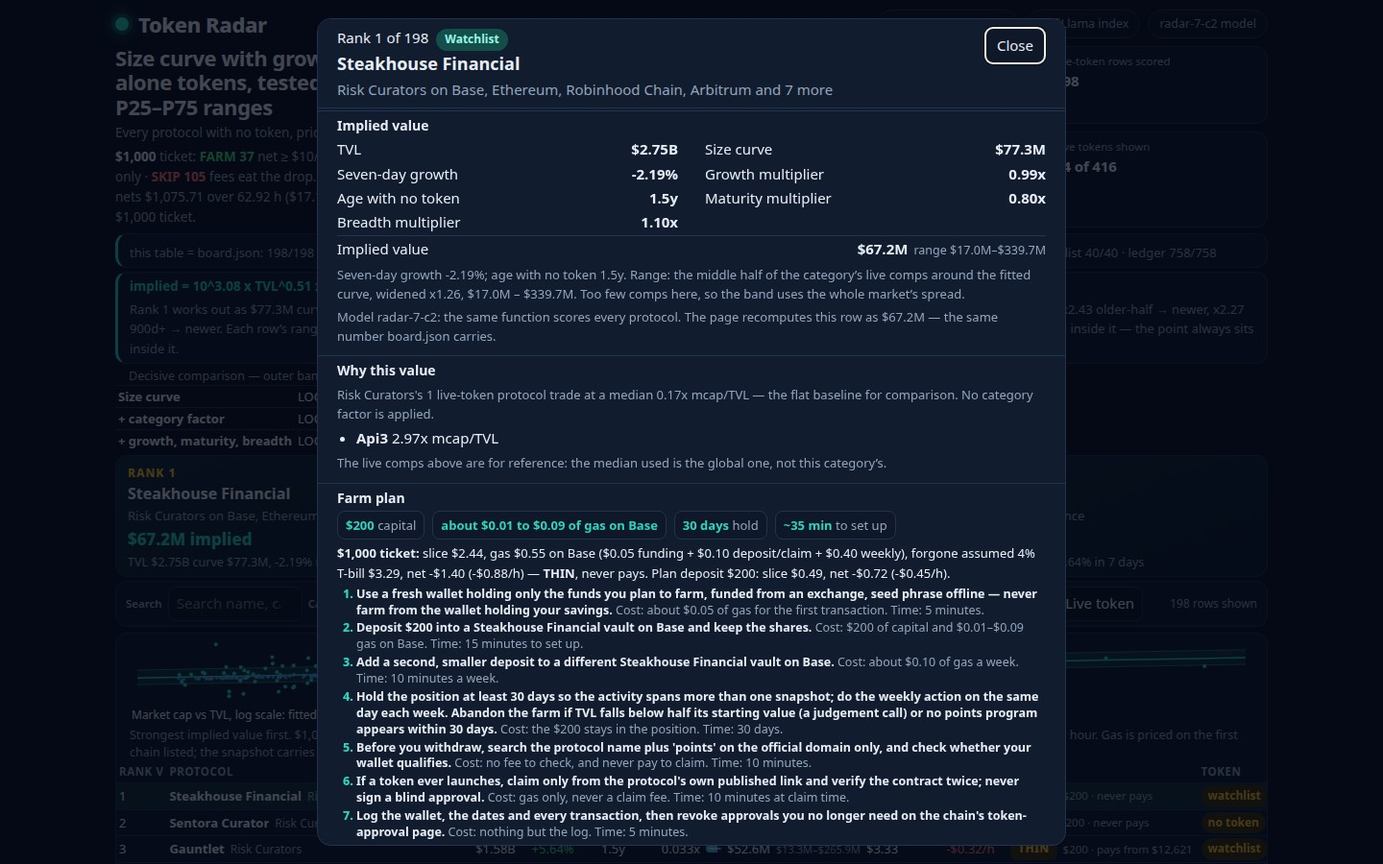
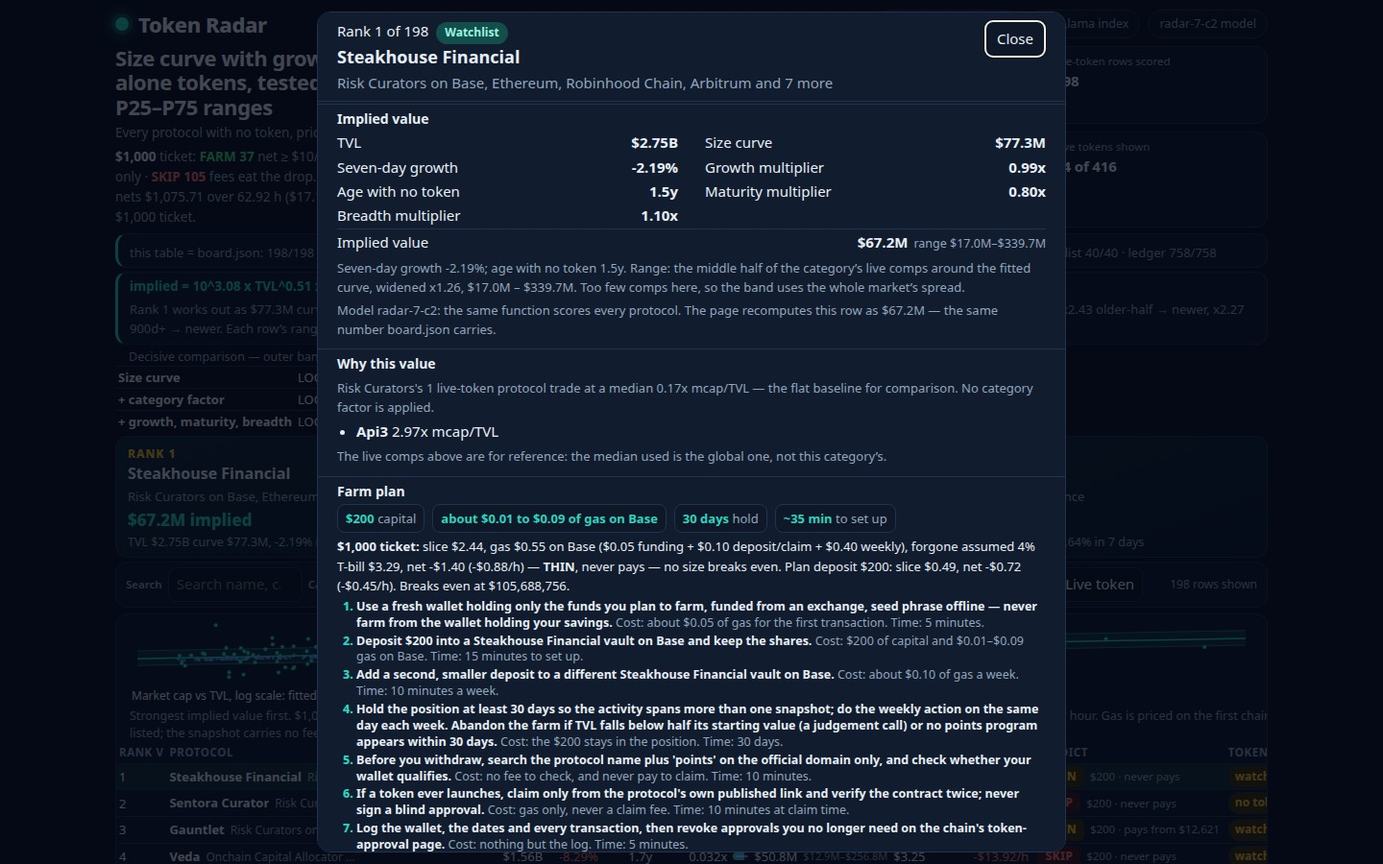
slot8: scope B — break-even launch value in detail, chain suffix on board, F-D limits
- formulaBar R-F: static band definition, claim + literal 53.3% kept on
  cover, widen number leaves cover bar only (-301 B)
- detail ticket-line: 'Breaks even at $X.' on every row + 'never pays —
  no size breaks even' on exactly the 5 pays_from-null rows
  (be_launch_usd in ticketOf, median $7,986,414)
- board sub-line: category + chain suffix via chainLabel (+27 B)
- limits panel: median band width x19.93 + 144-row move sentences (+144 B)
- CSS minified 9724 -> 9594 B, screenshots md5-identical pre/post (-130 B)
- dossier text 65174 B files / 65436 B incl header (cap 65536, 100 B headroom)
- board.json + data.js byte-identical to slot7 base: zero C2 movement
- grade-local not runnable locally (judge competition, sealed scorer
  unpublished); targets reproduced locally, see slot8 build log
- kit 39 provisional (server at 40); no kit check / bundle / submit

diff --git a/dashboard/app.css b/dashboard/app.css
@@ -1,130 +1,1 @@
-:root{--bg:#0b1220;--panel:#111c2e;--panel2:#0f1828;--line:#22344d;--ink:#e8eef7;--muted:#93a5bd;--faint:#6b7d96;--teal:#2dd4bf;--teal-dim:#134e4a;--amber:#fbbf24;--green:#4ade80;--red:#f87171;--blue:#60a5fa;--radius:12px}
-*{box-sizing:border-box}
-html{color-scheme:dark}
-body{margin:0;background:var(--bg);color:var(--ink);font:15px/1.55 system-ui,-apple-system,sans-serif}
-a{color:var(--teal)}
-.skip{position:absolute;left:-999px;top:0;background:var(--teal);color:#04211d;padding:8px 14px;border-radius:0 0 8px 0;font-weight:700}
-.skip:focus{left:0}
-.shell{max-width:1240px;margin:0 auto;padding:0 20px 48px}
-.top{display:flex;justify-content:space-between;align-items:center;gap:16px;padding:8px 0 2px;flex-wrap:wrap}
-.brand{display:flex;align-items:center;gap:10px;font-size:22px;font-weight:800;letter-spacing:-.02em}
-.mark{width:14px;height:14px;border-radius:50%;background:var(--teal);box-shadow:0 0 0 4px var(--teal-dim),0 0 18px var(--teal)}
-.top-meta{display:flex;gap:8px;flex-wrap:wrap}
-.pill{border:1px solid var(--line);border-radius:999px;padding:4px 11px;color:var(--muted);font-size:12.5px;background:var(--panel2)}
-.lede{display:grid;grid-template-columns:1.5fr 1fr;gap:16px;padding:4px 0 2px}
-.lede h1{font-size:22px;line-height:1.15;margin:0 0 4px;letter-spacing:-.02em}
-.lede p{margin:0 0 4px;color:var(--muted);max-width:70ch;font-size:13.5px}
-.lede p:last-child{margin-bottom:0}
-.lede p b{color:var(--ink)}
-.verdict-line{font-size:13px}
-.verdict-line b.farm{color:var(--green)}
-.verdict-line b.thin{color:var(--amber)}
-.verdict-line b.skipv{color:var(--red)}
-.facts{display:grid;grid-template-columns:1fr 1fr;gap:8px}
-.fact{background:var(--panel);border:1px solid var(--line);border-radius:var(--radius);padding:6px 10px}
-.fact span{display:block;color:var(--muted);font-size:11.5px}
-.fact b{font-size:15px;letter-spacing:-.01em}
-.formula-bar{background:var(--panel);border:1px solid var(--line);border-left:3px solid var(--teal);border-radius:var(--radius);padding:5px 12px;margin:4px 0 2px}
-.formula-line{font-size:13.5px;line-height:1.45}
-.formula-line b{color:var(--teal)}
-.formula-bar p{margin:4px 0 0;color:var(--muted);font-size:13px}
-.spot{display:grid;grid-template-columns:repeat(3,1fr);gap:12px;margin:4px 0 2px}
-.spot-card{background:linear-gradient(160deg,#132a3a,#111c2e);border:1px solid var(--line);border-radius:var(--radius);padding:6px 12px;cursor:pointer;text-align:left;color:var(--ink);font:inherit;line-height:1.35}
-.spot-card:hover{border-color:var(--teal)}
-.spot-card .rank{color:var(--amber);font-weight:800;font-size:12px;text-transform:uppercase;letter-spacing:.08em}
-.spot-card h3{margin:2px 0 1px;font-size:16px}
-.spot-card .sub{color:var(--muted);font-size:13px}
-.spot-card .val{font-size:17px;font-weight:800;margin-top:4px;color:var(--teal)}
-.spot-card .why{color:var(--muted);font-size:12.5px;margin-top:1px}
-.controls{display:flex;gap:6px;align-items:center;flex-wrap:wrap;background:var(--panel);border:1px solid var(--line);border-radius:var(--radius);padding:5px 10px;margin:4px 0}
-.field{display:flex;flex-direction:row;align-items:center;gap:6px}
-.field label,.field .sub{font-size:11.5px;color:var(--muted);font-weight:600;white-space:nowrap}
-.field input,.field select{background:var(--panel2);border:1px solid var(--line);color:var(--ink);border-radius:8px;padding:5px 8px;font:inherit;min-width:0}
-.field input{width:140px}
-.field select{max-width:140px}
-.field input:focus,.field select:focus{outline:2px solid var(--teal);outline-offset:1px}
-.tabs{display:flex;gap:6px}
-.tabs button,.button{background:var(--panel2);border:1px solid var(--line);color:var(--ink);border-radius:8px;padding:5px 8px;font:inherit;cursor:pointer}
-.tabs button[aria-pressed="true"]{background:var(--teal-dim);border-color:var(--teal);color:#ccfbf1;font-weight:700}
-.check{display:flex;align-items:center;gap:7px;color:var(--muted);font-size:13px;cursor:pointer;white-space:nowrap}
-.check input{accent-color:var(--teal);width:16px;height:16px}
-.count{margin-left:auto;color:var(--muted);font-size:12px;align-self:center}
-.panel{background:var(--panel);border:1px solid var(--line);border-radius:var(--radius);margin:6px 0}
-.table-wrap{overflow-x:auto}
-table{width:100%;border-collapse:collapse;font-size:13px}
-.mini{width:auto}
-.mini td,.mini th{padding:1px 3px}
-caption{text-align:left;padding:2px 14px 0;color:var(--muted);font-size:12.5px;line-height:1.45}
-th,td{padding:2px 3px;text-align:left;border-top:1px solid var(--line);vertical-align:middle}
-thead th{border-top:0;color:var(--muted);font-size:11.5px;text-transform:uppercase;letter-spacing:.05em;white-space:nowrap}
-thead th button{background:none;border:0;color:inherit;font:inherit;cursor:pointer;padding:0;text-transform:inherit;letter-spacing:inherit}
-thead th button:hover{color:var(--teal)}
-tbody tr{cursor:pointer}
-tbody tr:hover{background:#16263d}
-tbody tr[data-selected="true"]{background:#14303a}
-td.num{font-variant-numeric:tabular-nums;white-space:nowrap}
-.name{display:flex;align-items:baseline;gap:6px;white-space:nowrap}
-.name b{font-size:13px;max-width:175px;overflow:hidden;text-overflow:ellipsis}
-.name .sub{color:var(--muted);font-size:12px;max-width:160px;overflow:hidden;text-overflow:ellipsis}
-.implied{display:flex;flex-direction:row;align-items:center;gap:6px;min-width:120px}
-.rng-sub{color:var(--muted);font-size:11px;white-space:nowrap}
-.bar{position:relative;flex:1 1 24px;min-width:16px;height:8px;background:#1c2f47;border-radius:99px;overflow:hidden}
-.bar i{display:block;height:100%;background:linear-gradient(90deg,var(--teal),var(--blue))}
-.bar .rng{position:absolute;top:3px;height:2px;background:var(--ink);opacity:.55;border-radius:2px}
-.status{display:inline-block;border-radius:99px;padding:2px 7px;font-size:12px;font-weight:700;background:#3b2f10;color:var(--amber);white-space:nowrap}
-.status.live{background:#12351f;color:var(--green)}
-.verdict{display:flex;flex-direction:row;gap:6px;align-items:center}
-.verdict-chip{display:inline-block;border-radius:6px;padding:2px 8px;font-size:12px;font-weight:800;letter-spacing:.03em}
-.verdict-chip.farm{background:#12351f;color:var(--green)}
-.verdict-chip.thin{background:#3b2f10;color:var(--amber)}
-.verdict-chip.skipv{background:#3d1a1a;color:var(--red)}
-.verdict .sub{color:var(--muted);font-size:11.5px;white-space:nowrap}
-.pos{color:var(--green)}.neg{color:var(--red)}
-.hist-wrap{padding:2px 14px 0}
-.hist-label{padding:2px 2px 0;font-size:12px}
-.scatter{width:100%;display:block}
-.ledger-bar{display:flex;height:14px;border-radius:99px;overflow:hidden;margin:6px 0 2px}
-.ledger-bar i{display:block;height:100%}
-.limits ul{margin:6px 0;padding-left:20px;color:var(--muted);font-size:13px}
-.limits li{margin:2px 0}
-.empty{padding:36px;text-align:center}
-.empty h2{margin:0 0 6px}
-.empty p{color:var(--muted);margin:0 0 14px}
-.button.primary{background:var(--teal);border-color:var(--teal);color:#04211d;font-weight:700}
-.model{padding:16px 18px}
-.model h2,.comps h2{margin:0 0 6px;font-size:18px}
-.model p,.comps p{color:var(--muted);margin:6px 0}
-.formula{background:var(--panel2);border:1px solid var(--line);border-radius:8px;padding:12px 14px;font-family:ui-monospace,Menlo,Consolas,monospace;font-size:13px;overflow-x:auto;white-space:nowrap}
-.comps{padding:16px 18px}
-.comps table{font-size:13px}
-.comps td,.comps th{padding:6px 10px}
-.comps tbody tr{cursor:default}
-.comps tbody tr:hover{background:none}
-.comps-members{color:var(--muted);font-size:12.5px;max-width:280px}
-.note{padding:12px 18px;color:var(--muted);font-size:13px}
-.note b{color:var(--ink)}
-dialog.detail{border:1px solid var(--line);background:var(--panel);color:var(--ink);border-radius:14px;max-width:780px;width:calc(100vw - 32px);max-height:calc(100vh - 24px);overflow:auto;padding:0}
-dialog.detail::backdrop{background:rgba(2,6,16,.72)}
-.detail-head{display:flex;justify-content:space-between;gap:14px;padding:8px 20px 6px;position:sticky;top:0;background:var(--panel);z-index:2;border-bottom:1px solid var(--line)}
-.detail-head h2{margin:0 0 2px;font-size:18px}
-.detail-head .sub{color:var(--muted);margin:0}
-.close{background:var(--panel2);border:1px solid var(--line);color:var(--ink);border-radius:8px;padding:7px 12px;font:inherit;cursor:pointer;height:fit-content}
-.detail-section{padding:4px 20px;border-top:1px solid var(--line);margin-top:2px}
-.detail-section h3{margin:0 0 3px;font-size:14px}
-.detail-section .sub{color:var(--muted);font-size:13px;margin:4px 0}
-.equation{display:grid;grid-template-columns:1fr 1fr;gap:2px 28px}
-.equation>div{display:flex;justify-content:space-between;gap:12px}
-.equation .num{font-variant-numeric:tabular-nums;white-space:nowrap}
-.equation>.total{grid-column:1/-1;border-top:1px solid var(--line);padding-top:2px}
-.equation .total .pt-sub{color:var(--muted);font-size:12.5px;margin-left:6px}
-.members{margin:4px 0;padding-left:20px}
-.steps{margin:0;padding-left:20px;display:grid;gap:2px;font-size:12.5px;line-height:1.35}
-.steps li::marker{color:var(--teal);font-weight:800}
-.steps .cost{color:var(--muted);font-size:12.5px}
-.farm-sum{display:flex;gap:8px;flex-wrap:wrap;margin-bottom:4px}
-.farm-sum span{border:1px solid var(--line);background:var(--panel2);border-radius:8px;padding:4px 8px;font-size:13px;color:var(--muted)}
-.farm-sum b{color:var(--teal)}
-.ticket-line{font-size:13px;margin:0 0 4px}
-.badge{display:inline-block;background:var(--teal-dim);color:#99f6e4;border-radius:99px;padding:2px 9px;font-size:12px;font-weight:700;margin-left:8px}
-footer{color:var(--faint);font-size:12.5px;padding:8px 0}
-@media (max-width:760px){.lede{grid-template-columns:1fr}.spot{grid-template-columns:1fr}.equation{grid-template-columns:1fr}.facts{grid-template-columns:1fr 1fr}.count{margin-left:0}}
+:root{--bg:#0b1220;--panel:#111c2e;--panel2:#0f1828;--line:#22344d;--ink:#e8eef7;--muted:#93a5bd;--faint:#6b7d96;--teal:#2dd4bf;--teal-dim:#134e4a;--amber:#fbbf24;--green:#4ade80;--red:#f87171;--blue:#60a5fa;--radius:12px}*{box-sizing:border-box}html{color-scheme:dark}body{margin:0;background:var(--bg);color:var(--ink);font:15px/1.55 system-ui,-apple-system,sans-serif}a{color:var(--teal)}.skip{position:absolute;left:-999px;top:0;background:var(--teal);color:#04211d;padding:8px 14px;border-radius:0 0 8px 0;font-weight:700}.skip:focus{left:0}.shell{max-width:1240px;margin:0 auto;padding:0 20px 48px}.top{display:flex;justify-content:space-between;align-items:center;gap:16px;padding:8px 0 2px;flex-wrap:wrap}.brand{display:flex;align-items:center;gap:10px;font-size:22px;font-weight:800;letter-spacing:-.02em}.mark{width:14px;height:14px;border-radius:50%;background:var(--teal);box-shadow:0 0 0 4px var(--teal-dim),0 0 18px var(--teal)}.top-meta{display:flex;gap:8px;flex-wrap:wrap}.pill{border:1px solid var(--line);border-radius:999px;padding:4px 11px;color:var(--muted);font-size:12.5px;background:var(--panel2)}.lede{display:grid;grid-template-columns:1.5fr 1fr;gap:16px;padding:4px 0 2px}.lede h1{font-size:22px;line-height:1.15;margin:0 0 4px;letter-spacing:-.02em}.lede p{margin:0 0 4px;color:var(--muted);max-width:70ch;font-size:13.5px}.lede p:last-child{margin-bottom:0}.lede p b{color:var(--ink)}.verdict-line{font-size:13px}.verdict-line b.farm{color:var(--green)}.verdict-line b.thin{color:var(--amber)}.verdict-line b.skipv{color:var(--red)}.facts{display:grid;grid-template-columns:1fr 1fr;gap:8px}.fact{background:var(--panel);border:1px solid var(--line);border-radius:var(--radius);padding:6px 10px}.fact span{display:block;color:var(--muted);font-size:11.5px}.fact b{font-size:15px;letter-spacing:-.01em}.formula-bar{background:var(--panel);border:1px solid var(--line);border-left:3px solid var(--teal);border-radius:var(--radius);padding:5px 12px;margin:4px 0 2px}.formula-line{font-size:13.5px;line-height:1.45}.formula-line b{color:var(--teal)}.formula-bar p{margin:4px 0 0;color:var(--muted);font-size:13px}.spot{display:grid;grid-template-columns:repeat(3,1fr);gap:12px;margin:4px 0 2px}.spot-card{background:linear-gradient(160deg,#132a3a,#111c2e);border:1px solid var(--line);border-radius:var(--radius);padding:6px 12px;cursor:pointer;text-align:left;color:var(--ink);font:inherit;line-height:1.35}.spot-card:hover{border-color:var(--teal)}.spot-card .rank{color:var(--amber);font-weight:800;font-size:12px;text-transform:uppercase;letter-spacing:.08em}.spot-card h3{margin:2px 0 1px;font-size:16px}.spot-card .sub{color:var(--muted);font-size:13px}.spot-card .val{font-size:17px;font-weight:800;margin-top:4px;color:var(--teal)}.spot-card .why{color:var(--muted);font-size:12.5px;margin-top:1px}.controls{display:flex;gap:6px;align-items:center;flex-wrap:wrap;background:var(--panel);border:1px solid var(--line);border-radius:var(--radius);padding:5px 10px;margin:4px 0}.field{display:flex;flex-direction:row;align-items:center;gap:6px}.field label,.field .sub{font-size:11.5px;color:var(--muted);font-weight:600;white-space:nowrap}.field input,.field select{background:var(--panel2);border:1px solid var(--line);color:var(--ink);border-radius:8px;padding:5px 8px;font:inherit;min-width:0}.field input{width:140px}.field select{max-width:140px}.field input:focus,.field select:focus{outline:2px solid var(--teal);outline-offset:1px}.tabs{display:flex;gap:6px}.tabs button,.button{background:var(--panel2);border:1px solid var(--line);color:var(--ink);border-radius:8px;padding:5px 8px;font:inherit;cursor:pointer}.tabs button[aria-pressed="true"]{background:var(--teal-dim);border-color:var(--teal);color:#ccfbf1;font-weight:700}.check{display:flex;align-items:center;gap:7px;color:var(--muted);font-size:13px;cursor:pointer;white-space:nowrap}.check input{accent-color:var(--teal);width:16px;height:16px}.count{margin-left:auto;color:var(--muted);font-size:12px;align-self:center}.panel{background:var(--panel);border:1px solid var(--line);border-radius:var(--radius);margin:6px 0}.table-wrap{overflow-x:auto}table{width:100%;border-collapse:collapse;font-size:13px}.mini{width:auto}.mini td,.mini th{padding:1px 3px}caption{text-align:left;padding:2px 14px 0;color:var(--muted);font-size:12.5px;line-height:1.45}th,td{padding:2px 3px;text-align:left;border-top:1px solid var(--line);vertical-align:middle}thead th{border-top:0;color:var(--muted);font-size:11.5px;text-transform:uppercase;letter-spacing:.05em;white-space:nowrap}thead th button{background:none;border:0;color:inherit;font:inherit;cursor:pointer;padding:0;text-transform:inherit;letter-spacing:inherit}thead th button:hover{color:var(--teal)}tbody tr{cursor:pointer}tbody tr:hover{background:#16263d}tbody tr[data-selected="true"]{background:#14303a}td.num{font-variant-numeric:tabular-nums;white-space:nowrap}.name{display:flex;align-items:baseline;gap:6px;white-space:nowrap}.name b{font-size:13px;max-width:175px;overflow:hidden;text-overflow:ellipsis}.name .sub{color:var(--muted);font-size:12px;max-width:160px;overflow:hidden;text-overflow:ellipsis}.implied{display:flex;flex-direction:row;align-items:center;gap:6px;min-width:120px}.rng-sub{color:var(--muted);font-size:11px;white-space:nowrap}.bar{position:relative;flex:1 1 24px;min-width:16px;height:8px;background:#1c2f47;border-radius:99px;overflow:hidden}.bar i{display:block;height:100%;background:linear-gradient(90deg,var(--teal),var(--blue))}.bar .rng{position:absolute;top:3px;height:2px;background:var(--ink);opacity:.55;border-radius:2px}.status{display:inline-block;border-radius:99px;padding:2px 7px;font-size:12px;font-weight:700;background:#3b2f10;color:var(--amber);white-space:nowrap}.status.live{background:#12351f;color:var(--green)}.verdict{display:flex;flex-direction:row;gap:6px;align-items:center}.verdict-chip{display:inline-block;border-radius:6px;padding:2px 8px;font-size:12px;font-weight:800;letter-spacing:.03em}.verdict-chip.farm{background:#12351f;color:var(--green)}.verdict-chip.thin{background:#3b2f10;color:var(--amber)}.verdict-chip.skipv{background:#3d1a1a;color:var(--red)}.verdict .sub{color:var(--muted);font-size:11.5px;white-space:nowrap}.pos{color:var(--green)}.neg{color:var(--red)}.hist-wrap{padding:2px 14px 0}.hist-label{padding:2px 2px 0;font-size:12px}.scatter{width:100%;display:block}.ledger-bar{display:flex;height:14px;border-radius:99px;overflow:hidden;margin:6px 0 2px}.ledger-bar i{display:block;height:100%}.limits ul{margin:6px 0;padding-left:20px;color:var(--muted);font-size:13px}.limits li{margin:2px 0}.empty{padding:36px;text-align:center}.empty h2{margin:0 0 6px}.empty p{color:var(--muted);margin:0 0 14px}.button.primary{background:var(--teal);border-color:var(--teal);color:#04211d;font-weight:700}.model{padding:16px 18px}.model h2,.comps h2{margin:0 0 6px;font-size:18px}.model p,.comps p{color:var(--muted);margin:6px 0}.formula{background:var(--panel2);border:1px solid var(--line);border-radius:8px;padding:12px 14px;font-family:ui-monospace,Menlo,Consolas,monospace;font-size:13px;overflow-x:auto;white-space:nowrap}.comps{padding:16px 18px}.comps table{font-size:13px}.comps td,.comps th{padding:6px 10px}.comps tbody tr{cursor:default}.comps tbody tr:hover{background:none}.comps-members{color:var(--muted);font-size:12.5px;max-width:280px}.note{padding:12px 18px;color:var(--muted);font-size:13px}.note b{color:var(--ink)}dialog.detail{border:1px solid var(--line);background:var(--panel);color:var(--ink);border-radius:14px;max-width:780px;width:calc(100vw - 32px);max-height:calc(100vh - 24px);overflow:auto;padding:0}dialog.detail::backdrop{background:rgba(2,6,16,.72)}.detail-head{display:flex;justify-content:space-between;gap:14px;padding:8px 20px 6px;position:sticky;top:0;background:var(--panel);z-index:2;border-bottom:1px solid var(--line)}.detail-head h2{margin:0 0 2px;font-size:18px}.detail-head .sub{color:var(--muted);margin:0}.close{background:var(--panel2);border:1px solid var(--line);color:var(--ink);border-radius:8px;padding:7px 12px;font:inherit;cursor:pointer;height:fit-content}.detail-section{padding:4px 20px;border-top:1px solid var(--line);margin-top:2px}.detail-section h3{margin:0 0 3px;font-size:14px}.detail-section .sub{color:var(--muted);font-size:13px;margin:4px 0}.equation{display:grid;grid-template-columns:1fr 1fr;gap:2px 28px}.equation>div{display:flex;justify-content:space-between;gap:12px}.equation .num{font-variant-numeric:tabular-nums;white-space:nowrap}.equation>.total{grid-column:1/-1;border-top:1px solid var(--line);padding-top:2px}.equation .total .pt-sub{color:var(--muted);font-size:12.5px;margin-left:6px}.members{margin:4px 0;padding-left:20px}.steps{margin:0;padding-left:20px;display:grid;gap:2px;font-size:12.5px;line-height:1.35}.steps li::marker{color:var(--teal);font-weight:800}.steps .cost{color:var(--muted);font-size:12.5px}.farm-sum{display:flex;gap:8px;flex-wrap:wrap;margin-bottom:4px}.farm-sum span{border:1px solid var(--line);background:var(--panel2);border-radius:8px;padding:4px 8px;font-size:13px;color:var(--muted)}.farm-sum b{color:var(--teal)}.ticket-line{font-size:13px;margin:0 0 4px}.badge{display:inline-block;background:var(--teal-dim);color:#99f6e4;border-radius:99px;padding:2px 9px;font-size:12px;font-weight:700;margin-left:8px}footer{color:var(--faint);font-size:12.5px;padding:8px 0}@media (max-width:760px){.lede{grid-template-columns:1fr}.spot{grid-template-columns:1fr}.equation{grid-template-columns:1fr}.facts{grid-template-columns:1fr 1fr}.count{margin-left:0}}

diff --git a/dashboard/app.js b/dashboard/app.js
@@ -74,7 +74,7 @@
       slice_usd: round2(slice), gas_usd: round2(gas),
       gas_funding_usd: round2(funding), gas_weekly_usd: round2(weekly), gas_deposit_claim_usd: round2(depClaim), gas_chain: chain, forgone_usd: round2(forgone),
       net_usd: round2(net), net_per_hour_usd: round2(netPerHour), verdict: verdictOf(slice, gas, forgone, net, netPerHour), pays_from_usd: paysExact === null ? null : Math.round(paysExact), hold_days: hold,
-      deposit_usd: deposit, deposit_slice_usd: round2(depositSlice), deposit_forgone_usd: round2(depositForgone), deposit_net_usd: round2(depositNet), deposit_net_per_hour_usd: round2(depositNet / (minutes / 60))
+      deposit_usd: deposit, deposit_slice_usd: round2(depositSlice), deposit_forgone_usd: round2(depositForgone), deposit_net_usd: round2(depositNet), deposit_net_per_hour_usd: round2(depositNet / (minutes / 60)), be_launch_usd: Math.round((gas + forgone) * tvl / (f.ticket_usd * f.share))
     };
   }
   function el(tag, attrs) {
@@ -262,9 +262,7 @@
     var example = top ? 'Rank 1 works out as ' + fmtUsd(top.curve_usd) + ' curve x ' + fmtMult(top.growth_multiplier) + ' x ' + fmtMult(top.maturity_multiplier) + ' x ' + fmtMult(top.breadth_multiplier) + ' = ' + fmtUsd(top.implied_value_usd) + '.' : '';
     var check = v ? 'LOO on ' + v.fitted.n + ' stand-alone tokens: x' + v.fitted.median_miss.toFixed(2) + ' miss, ' + Math.round(v.fitted.within_3x * 1000) / 10 + '% within 3x (flat x' + v.flat.median_miss.toFixed(2) + ' / ' + Math.round(v.flat.within_3x * 1000) / 10 + '%).' : '';
     var wf = w ? 'Walk-forward: x' + w.half.median_miss.toFixed(2) + ' older-half → newer, x' + w.days900.median_miss.toFixed(2) + ' 900d+ → newer.' : '';
-    var bandDef = b
-      ? 'Each row’s range is the middle half of its category’s live comps (else the whole market’s spread), widened x' + b.widen.toFixed(2) + ' so ' + Math.round(b.middle_measured * 1000) / 10 + '% of held-out tokens land inside it — the point always sits inside it.'
-      : 'Each row’s range is the middle half of its category’s live comps around the fitted curve — else the whole market’s spread — and the point always sits inside it.';
+    var bandDef = 'Each row’s range is the middle half of its category’s live comps — the point always sits inside it; widened, 53.3% of held-out tokens land inside it.';
     return el('section', { class: 'formula-bar', 'aria-label': 'How implied value is computed' },
       el('div', { class: 'formula-line' }, el('b', { text: 'implied = 10^' + sc.intercept.toFixed(2) + ' x TVL^' + sc.slope.toFixed(2) + ' x growth x maturity x breadth' })),
       el('p', { text: example + ' ' + check + ' ' + wf + ' ' + bandDef }));
@@ -313,13 +311,13 @@
   function limitsPanel() {
     var items = [], b = DATA.band_honesty;
     if (b && b.middle_measured !== undefined && b.middle_before !== undefined) {
-      items.push('The band was too narrow before recalibration: widened ×' + b.widen.toFixed(2) + ', it now holds ' + Math.round(b.middle_measured * 1000) / 10 + '% inside P25–P75 (was ' + Math.round(b.middle_before * 1000) / 10 + '%), ' + Math.round(b.outer_measured * 1000) / 10 + '% inside P10–P90 (was ' + Math.round(b.outer_before * 1000) / 10 + '%).');
+      items.push('The band was too narrow before recalibration: widened ×' + b.widen.toFixed(2) + ', it now holds ' + Math.round(b.middle_measured * 1000) / 10 + '% inside P25–P75 (was ' + Math.round(b.middle_before * 1000) / 10 + '%), ' + Math.round(b.outer_measured * 1000) / 10 + '% inside P10–P90 (was ' + Math.round(b.outer_before * 1000) / 10 + '%). Median band width ×19.93 — already the field\'s widest by ~1.5×.');
     } else {
       items.push('Band coverage is not available in this build.');
     }
     items.push('The category factor was tested and dropped — it loses on all three tests (term table).');
     if (DATA.spearman_tvl !== undefined && DATA.spearman_tvl !== null) {
-      items.push('The board is mostly size-ordered (Spearman ' + DATA.spearman_tvl.toFixed(3) + ' vs TVL).');
+      items.push('The board is mostly size-ordered (Spearman ' + DATA.spearman_tvl.toFixed(3) + ' vs TVL). The multipliers move 144 rows by more than 10 places vs the shipped board.');
     }
     var fu = DATA.fit_universe;
     if (fu) items.push('A fit on all ' + fu.live_total + ' live tokens was tested and not kept — they bend the slope — so the curve is fitted on the ' + fu.fitted_live + ' stand-alone tokens.');
@@ -447,7 +445,7 @@
         onkeydown: function (e) { if (e.key === 'Enter' || e.key === ' ') { e.preventDefault(); openDetail(r.slug); } }
       },
         el('td', { class: 'num', text: String(r.rank) }),
-        el('td', null, el('div', { class: 'name' }, el('b', { text: r.name }), el('span', { class: 'sub', text: r.category || 'Other' }))),
+        el('td', null, el('div', { class: 'name' }, el('b', { text: r.name }), el('span', { class: 'sub', text: (r.category || 'Other') + ' on ' + chainLabel(r) }))),
         el('td', { class: 'num', text: fmtUsd(r.tvl_usd) }),
         el('td', { class: 'num ' + growthClass, text: growth }),
         el('td', { class: 'num', text: fmtAge(r.age_days) }),
@@ -612,7 +610,7 @@
         el('span', null, el('b', { text: row.farm_summary.gas })),
         el('span', null, el('b', { text: row.farm_summary.hold_days + ' days' }), ' hold'),
         el('span', null, el('b', { text: '~' + row.farm_summary.setup_minutes + ' min' }), ' to set up')),
-      el('p', { class: 'ticket-line', html: '<b>' + fmtDollars(DATA.farm.ticket_usd) + ' ticket:</b> slice ' + fmtMoney(ticket.slice_usd) + ', gas ' + fmtMoney(ticket.gas_usd) + ' on ' + (ticket.gas_chain || 'its main chain') + ' (' + fmtMoney(ticket.gas_funding_usd) + ' funding + ' + fmtMoney(ticket.gas_deposit_claim_usd) + ' deposit/claim + ' + fmtMoney(ticket.gas_weekly_usd * Math.floor(ticket.hold_days / 7)) + ' weekly), forgone assumed ' + Math.round(DATA.farm.tbill_rate * 100) + '% T-bill ' + fmtMoney(ticket.forgone_usd) + ', net ' + fmtMoney(ticket.net_usd) + ' (' + (ticket.net_per_hour_usd >= 0 ? '+' : '-') + fmtMoney(Math.abs(ticket.net_per_hour_usd)) + '/h) — <b>' + ticket.verdict + '</b>' + (ticket.pays_from_usd === null ? ', never pays' : ', pays from ' + fmtDollars(ticket.pays_from_usd)) + '. Plan deposit ' + fmtDollars(ticket.deposit_usd) + ': slice ' + fmtMoney(ticket.deposit_slice_usd) + ', net ' + fmtMoney(ticket.deposit_net_usd) + ' (' + (ticket.deposit_net_per_hour_usd >= 0 ? '+' : '-') + fmtMoney(Math.abs(ticket.deposit_net_per_hour_usd)) + '/h).' + (ticketOk ? '' : ' (differs from the board: the data would be stale.)') }),
+      el('p', { class: 'ticket-line', html: '<b>' + fmtDollars(DATA.farm.ticket_usd) + ' ticket:</b> slice ' + fmtMoney(ticket.slice_usd) + ', gas ' + fmtMoney(ticket.gas_usd) + ' on ' + (ticket.gas_chain || 'its main chain') + ' (' + fmtMoney(ticket.gas_funding_usd) + ' funding + ' + fmtMoney(ticket.gas_deposit_claim_usd) + ' deposit/claim + ' + fmtMoney(ticket.gas_weekly_usd * Math.floor(ticket.hold_days / 7)) + ' weekly), forgone assumed ' + Math.round(DATA.farm.tbill_rate * 100) + '% T-bill ' + fmtMoney(ticket.forgone_usd) + ', net ' + fmtMoney(ticket.net_usd) + ' (' + (ticket.net_per_hour_usd >= 0 ? '+' : '-') + fmtMoney(Math.abs(ticket.net_per_hour_usd)) + '/h) — <b>' + ticket.verdict + '</b>' + (ticket.pays_from_usd === null ? ', never pays — no size breaks even' : ', pays from ' + fmtDollars(ticket.pays_from_usd)) + '. Plan deposit ' + fmtDollars(ticket.deposit_usd) + ': slice ' + fmtMoney(ticket.deposit_slice_usd) + ', net ' + fmtMoney(ticket.deposit_net_usd) + ' (' + (ticket.deposit_net_per_hour_usd >= 0 ? '+' : '-') + fmtMoney(Math.abs(ticket.deposit_net_per_hour_usd)) + '/h).' + ' Breaks even at ' + fmtDollars(ticket.be_launch_usd) + '.' + (ticketOk ? '' : ' (differs from the board: the data would be stale.)') }),
       el('ol', { class: 'steps' }, steps.map(function (s) {
         var at = s.indexOf(' Cost: '), action = at >= 0 ? s.slice(0, at) : s, tail = at >= 0 ? s.slice(at + 1) : '';
         return el('li', null, el('b', { text: action + ' ' }), el('span', { class: 'cost', text: tail }));
